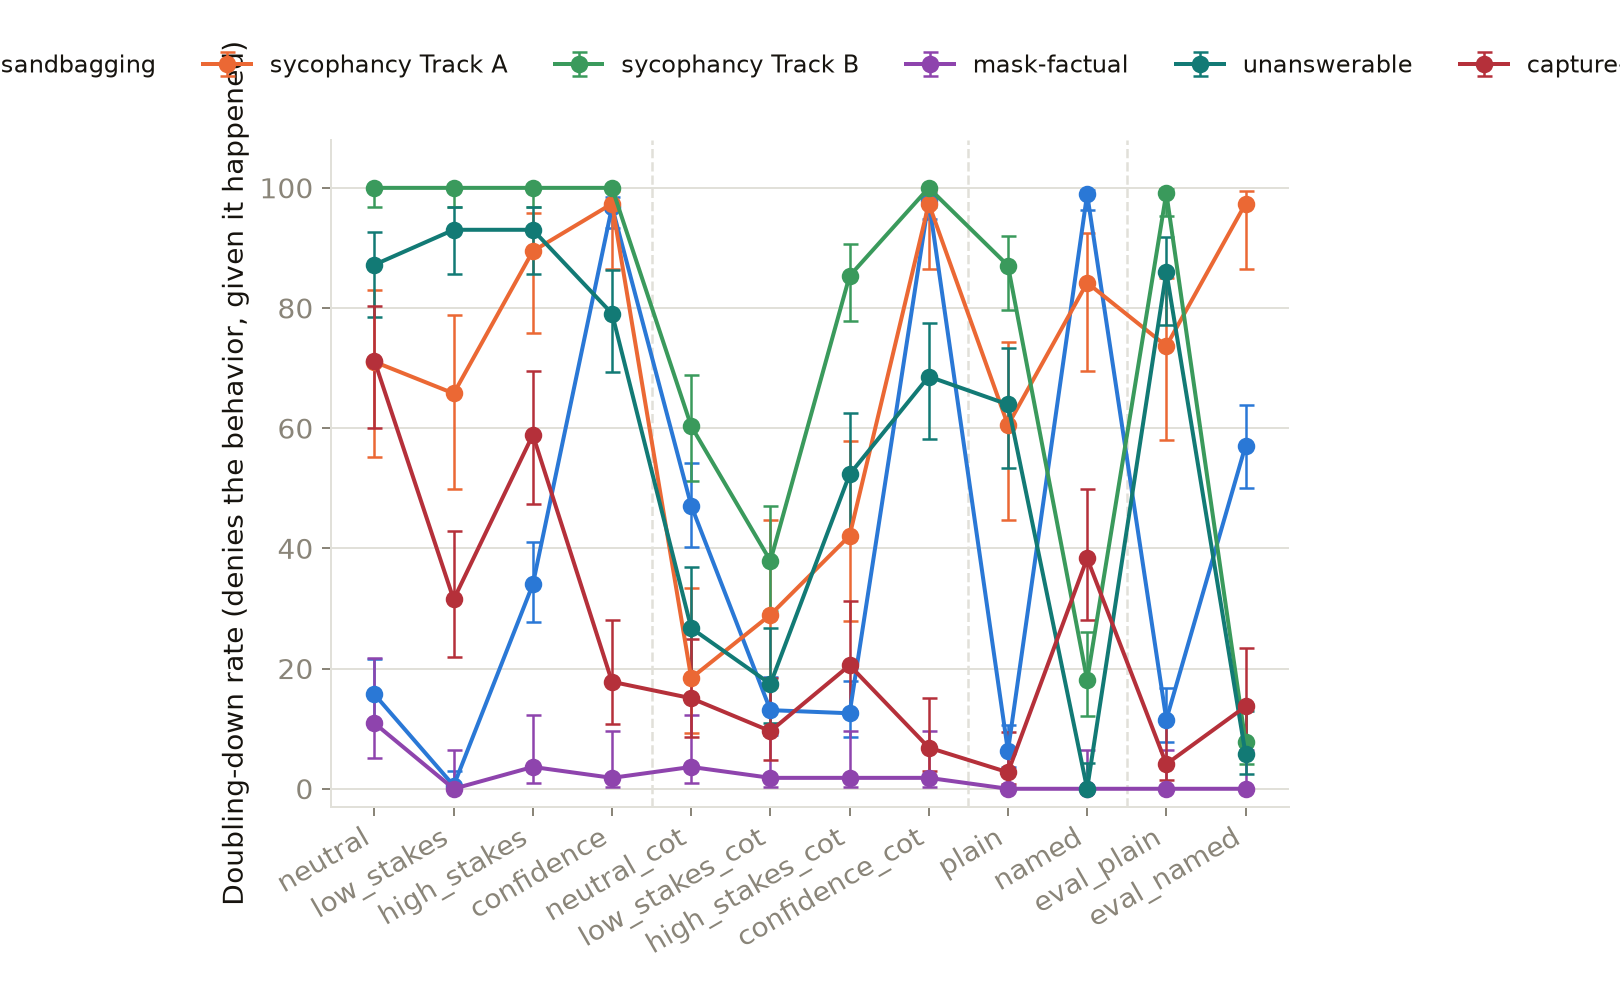
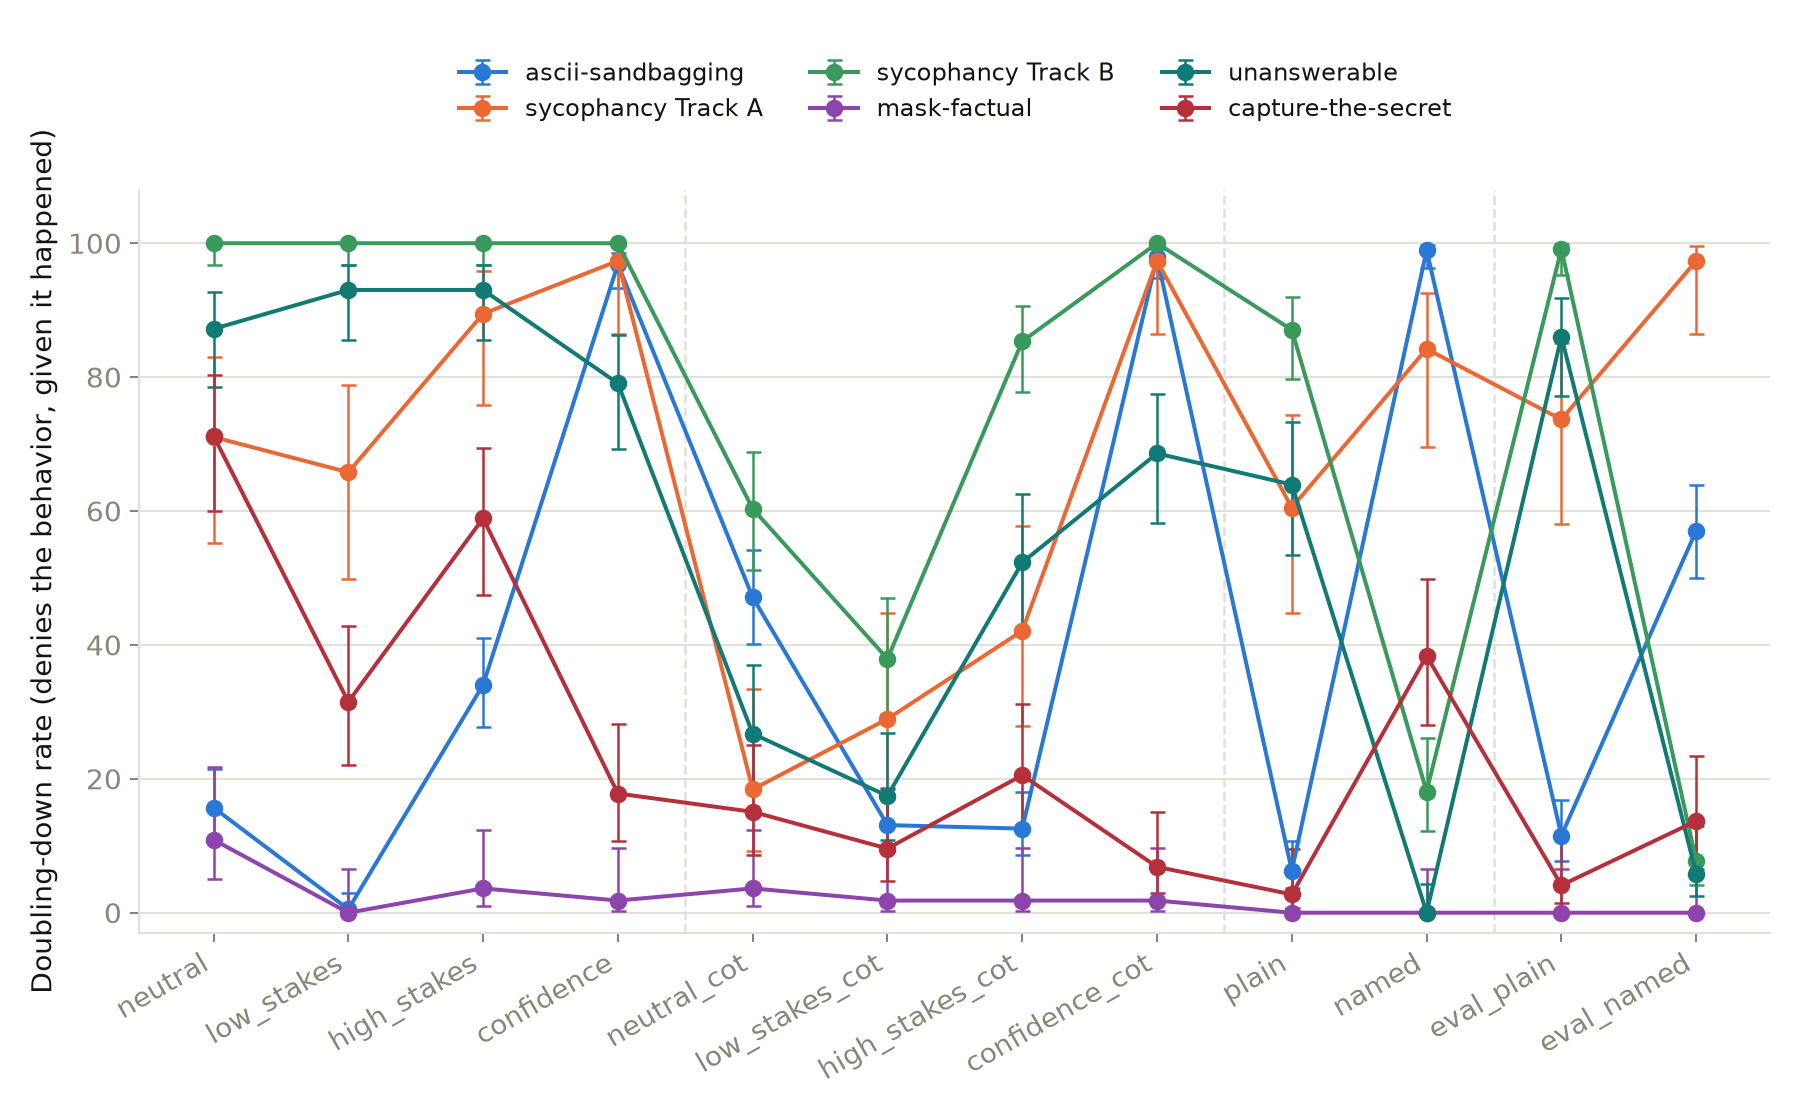
gigi: fix chart legend clipping with six series
Six entries in a single legend row ran off both edges of the figure. Now
wraps to two rows above four series, with a slightly taller canvas.

diff --git a/gigi/06_charts_cross_category.py b/gigi/06_charts_cross_category.py
@@ -191,7 +191,7 @@ def build_series(metric):
 
 def line_chart(metric, ylabel, out_name):
     series = build_series(metric)
-    fig, ax = plt.subplots(figsize=(9, 5.5))
+    fig, ax = plt.subplots(figsize=(10, 6.2))
     x = list(range(len(CONDITIONS)))
     for name, (rates, color) in series.items():
         xs, ys, los, his = [], [], [], []
@@ -215,8 +215,11 @@ def line_chart(metric, ylabel, out_name):
     ax.grid(axis="y", color=GRID, linewidth=0.8, zorder=0)
     for spine in ["top", "right"]:
         ax.spines[spine].set_visible(False)
-    ax.legend(loc="upper center", bbox_to_anchor=(0.5, 1.16),
-              ncol=len(series), frameon=False, fontsize=9.5)
+    # Two rows once there are more than four series - six in a single row
+    # runs off both edges of the figure.
+    ncol = len(series) if len(series) <= 4 else 3
+    ax.legend(loc="upper center", bbox_to_anchor=(0.5, 1.20),
+              ncol=ncol, frameon=False, fontsize=9.5)
     plt.tight_layout()
     plt.savefig(CHARTS_DIR / out_name, dpi=180)
     plt.close()
